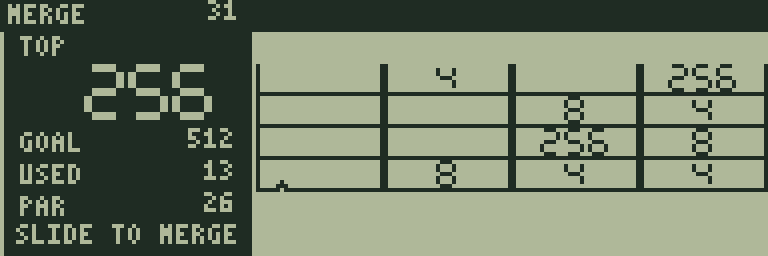
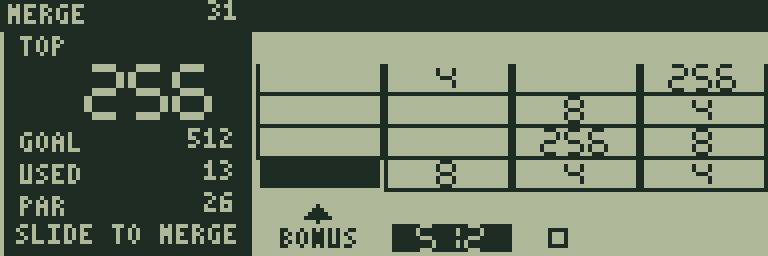
Make NUMBER RAIL bonus corners visible through slides and completion

Changed region(s): [[0.5, 0.875, 0.75, 1.0], [0.3125, 0.625, 0.5, 0.75], [0.3438, 0.8125, 0.4688, 0.9688]]

diff --git a/games/number-rail/generate.py b/games/number-rail/generate.py
@@ -7,6 +7,7 @@ root=Path(__file__).parent
 from puzzle_assets import campaign,level_records,challenge_data
 levels=campaign(root)
 from digit_art import draw_digits
+from visual_art import tiny
 sprites=[]
 for p in range(12):
  b=Bitmap(32,8)
@@ -23,4 +24,16 @@ for direction in range(4):
    x,y=(line,step) if direction==0 else (line,3-step) if direction==1 else (step,line) if direction==2 else (3-step,line)
    lines.append(y*4+x)
 data=asm_bytes('rail_lines',lines)+'rail_values: .word '+','.join(str(1<<n if n else 0) for n in range(12))+'\n'+asm_bytes('rail_goals',[s['initial']['goal'] for s in levels])+asm_bytes('rail_seeds',[s['initial']['seed'] for s in levels])+level_records([[a*16+b for a,b in zip(s['initial']['board'][::2],s['initial']['board'][1::2])] for s in levels])+challenge_data(root,levels,4,4,1,4)
+# Keep the goal cue outside the seven-row digits, even when displaying 2048.
+pointer = ['...#....', '#######.', '.#####..', '..###...',
+           '...#....', '........', '........', '........']
+check = ['........', '......#.', '.....##.', '.#..##..',
+         '.####...', '..##....', '........', '........']
+pending = ['........', '.#####..', '.#...#..', '.#...#..',
+           '.#...#..', '.#####..', '........', '........']
+for label, rows in [('rail_hint_down', pointer), ('rail_hint_up', pointer[::-1]),
+                    ('rail_hint_check', check), ('rail_hint_pending', pending)]:
+ data += asm_bytes(label, Bitmap.from_rows(rows).bytes())
+legend=Bitmap(20,8);tiny(legend,'BONUS',0,1)
+data+=asm_bytes('rail_bonus_label',legend.bytes())
 assets(Path(__file__).parent,'NUMBER RAIL','number-rail',4,4,4,1,sprites,40,data,stat='TOP',action='     ',aux=('UNDO','RESET'))

diff --git a/games/number-rail/README.md b/games/number-rail/README.md
@@ -2,7 +2,7 @@
 
 [ゲーム一覧](https://github.com/zabaglione/jr800-web-emulator/wiki) / [パズル・論理](https://github.com/zabaglione/jr800-web-emulator/wiki/Genre-Logic) · モダン
 
-[ビルド可能なソース](https://github.com/zabaglione/jr800-web-emulator/tree/main/games/number-rail)
+[遊ぶ](https://zabaglione.github.io/jr800-web-emulator/?program=number-rail) · [ビルド可能なソース](https://github.com/zabaglione/jr800-web-emulator/tree/main/games/number-rail)
 
 ![タイトル画面](../../docs/games/titles/number-rail.png)
 
@@ -10,7 +10,7 @@
 
 ## 遊び方
 
-方向キーで全タイルを滑らせ、同じ数字を合体させます。1回の移動で同じタイルが二重に合体することはありません。GOAL以上のタイルを作ればクリアです。追加目標は、その目標タイルを印のある隅で作ることです。毎回同じ出現順なので、再挑戦で手順を工夫できます。
+方向キーで全タイルを滑らせ、同じ数字を合体させます。1回の移動で同じタイルが二重に合体することはありません。GOAL以上のタイルを作ればクリアです。追加目標は、黒地・白数字で示した隅にGOAL以上のタイルを作ることです。盤面の外側の矢印が対象の隅を指し、下部のBONUSには完成させる数字の見本を表示します。達成すると矢印とBONUSの横がチェックに変わります。毎回同じ出現順なので、再挑戦で手順を工夫できます。
 
 変化しない方向への入力は手数に含めません。UNDOは出現順も戻します。規定手数は、指定の隅で完成させる確認済み手順が基準です。
 
@@ -18,9 +18,9 @@
 
 ## ゲーム画面
 
-![第1面の初期配置と規定手数](../../docs/games/screenshots/number-rail/gameplay-1.png)
+![第1面の初期配置。黒い隅と矢印が追加目標、下部のBONUSが完成させる数字の見本](../../docs/games/screenshots/number-rail/gameplay-1.png)
 
-第1面の初期配置と規定手数。
+第1面の初期配置。黒い隅と矢印が追加目標、下部のBONUSが完成させる数字の見本。
 
 ![第31面で追加目標に挑戦している場面](../../docs/games/screenshots/number-rail/gameplay-2.png)
 
